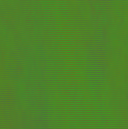
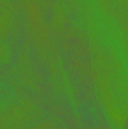
seperate soil and sed textures

diff --git a/src/code/src/gpu_shader_deposition.cpp b/src/code/src/gpu_shader_deposition.cpp
@@ -112,14 +112,20 @@ GPU_SoilDeposition::~GPU_SoilDeposition()
 	glDeleteBuffers(1, &sedimentBuffer);
 	glDeleteBuffers(1, &tempSedimentBuffer);
 
-	glDeleteBuffers(1, &siltBuffer);
-	glDeleteBuffers(1, &tempSiltBuffer);
+	glDeleteBuffers(1, &soiltexBuffer);
+	glDeleteBuffers(1, &tempSoiltexBuffer);
 
-	glDeleteBuffers(1, &sandBuffer);
-	glDeleteBuffers(1, &tempSandBuffer);
+	glDeleteBuffers(1, &sedtexBuffer);
+	glDeleteBuffers(1, &tempSedtexBuffer);
 
-	glDeleteBuffers(1, &clayBuffer);
-	glDeleteBuffers(1, &tempClayBuffer);
+	// glDeleteBuffers(1, &siltBuffer);
+	// glDeleteBuffers(1, &tempSiltBuffer);
+	//
+	// glDeleteBuffers(1, &sandBuffer);
+	// glDeleteBuffers(1, &tempSandBuffer);
+	//
+	// glDeleteBuffers(1, &clayBuffer);
+	// glDeleteBuffers(1, &tempClayBuffer);
 
 	release_program(simulationShader);
 }
@@ -133,9 +139,17 @@ void GPU_SoilDeposition::Init(const ScalarField2& hf, const ScalarField2& siltf,
 	dispatchSize = (max(nx, ny) / 8) + 1;
 
 	tmpData.resize(totalBufferSize);
+	tmpSoiltex.resize(totalBufferSize * 3);
 	tmpSilt.resize(totalBufferSize);
 	tmpSand.resize(totalBufferSize);
 	tmpClay.resize(totalBufferSize);
+
+	std::vector<float> tmpSoilTex(totalBufferSize*3, 0.);
+	for (int i = 0; i < totalBufferSize; i++) {
+		tmpSoilTex[i * 3 + 0] = float(siltf.at(i));
+		tmpSoilTex[i * 3 + 1] = float(sandf.at(i));
+		tmpSoilTex[i * 3 + 2] = float(clayf.at(i));
+	}
 
 	for (int i = 0; i < totalBufferSize; i++) {
 		tmpData[i] = float(hf.at(i));
@@ -174,29 +188,46 @@ void GPU_SoilDeposition::Init(const ScalarField2& hf, const ScalarField2& siltf,
 	glBindBuffer(GL_SHADER_STORAGE_BUFFER, tempSedimentBuffer);
 	glBufferData(GL_SHADER_STORAGE_BUFFER, sizeof(float) * totalBufferSize, &tmpZeros.front(), GL_STREAM_READ);
 
-	if (siltBuffer == 0) glGenBuffers(1, &siltBuffer);
-	glBindBuffer(GL_SHADER_STORAGE_BUFFER, siltBuffer);
-	glBufferData(GL_SHADER_STORAGE_BUFFER, sizeof(float) * totalBufferSize, &tmpSilt.front(), GL_STREAM_READ);
+	if (soiltexBuffer == 0) glGenBuffers(1, &soiltexBuffer);
+	glBindBuffer(GL_SHADER_STORAGE_BUFFER, soiltexBuffer);
+	glBufferData(GL_SHADER_STORAGE_BUFFER, sizeof(float) * 3 * totalBufferSize, &tmpSoilTex.front(), GL_STREAM_READ);
 
-	if (tempSiltBuffer == 0) glGenBuffers(1, &tempSiltBuffer);
-	glBindBuffer(GL_SHADER_STORAGE_BUFFER, tempSiltBuffer);
-	glBufferData(GL_SHADER_STORAGE_BUFFER, sizeof(float) * totalBufferSize, &tmpSilt.front(), GL_STREAM_READ);
+	if (tempSoiltexBuffer == 0) glGenBuffers(1, &tempSoiltexBuffer);
+	glBindBuffer(GL_SHADER_STORAGE_BUFFER, tempSoiltexBuffer);
+	glBufferData(GL_SHADER_STORAGE_BUFFER, sizeof(float) * 3 * totalBufferSize, &tmpSoilTex.front(), GL_STREAM_READ);
 
-	if (sandBuffer == 0) glGenBuffers(1, &sandBuffer);
-	glBindBuffer(GL_SHADER_STORAGE_BUFFER, sandBuffer);
-	glBufferData(GL_SHADER_STORAGE_BUFFER, sizeof(float) * totalBufferSize, &tmpSand.front(), GL_STREAM_READ);
+	if (sedtexBuffer == 0) glGenBuffers(1, &sedtexBuffer);
+	glBindBuffer(GL_SHADER_STORAGE_BUFFER, sedtexBuffer);
+	glBufferData(GL_SHADER_STORAGE_BUFFER, sizeof(float) * 3 * totalBufferSize, &tmpSoilTex.front(), GL_STREAM_READ);
 
-	if (tempSandBuffer == 0) glGenBuffers(1, &tempSandBuffer);
-	glBindBuffer(GL_SHADER_STORAGE_BUFFER, tempSandBuffer);
-	glBufferData(GL_SHADER_STORAGE_BUFFER, sizeof(float) * totalBufferSize, &tmpSand.front(), GL_STREAM_READ);
+	if (tempSedtexBuffer == 0) glGenBuffers(1, &tempSedtexBuffer);
+	glBindBuffer(GL_SHADER_STORAGE_BUFFER, tempSedtexBuffer);
+	glBufferData(GL_SHADER_STORAGE_BUFFER, sizeof(float) * 3 * totalBufferSize, &tmpSoilTex.front(), GL_STREAM_READ);
 
-	if (clayBuffer == 0) glGenBuffers(1, &clayBuffer);
-	glBindBuffer(GL_SHADER_STORAGE_BUFFER, clayBuffer);
-	glBufferData(GL_SHADER_STORAGE_BUFFER, sizeof(float) * totalBufferSize, &tmpClay.front(), GL_STREAM_READ);
 
-	if (tempClayBuffer == 0) glGenBuffers(1, &tempClayBuffer);
-	glBindBuffer(GL_SHADER_STORAGE_BUFFER, tempClayBuffer);
-	glBufferData(GL_SHADER_STORAGE_BUFFER, sizeof(float) * totalBufferSize, &tmpClay.front(), GL_STREAM_READ);
+	// if (siltBuffer == 0) glGenBuffers(1, &siltBuffer);
+	// glBindBuffer(GL_SHADER_STORAGE_BUFFER, siltBuffer);
+	// glBufferData(GL_SHADER_STORAGE_BUFFER, sizeof(float) * totalBufferSize, &tmpSilt.front(), GL_STREAM_READ);
+	//
+	// if (tempSiltBuffer == 0) glGenBuffers(1, &tempSiltBuffer);
+	// glBindBuffer(GL_SHADER_STORAGE_BUFFER, tempSiltBuffer);
+	// glBufferData(GL_SHADER_STORAGE_BUFFER, sizeof(float) * totalBufferSize, &tmpSilt.front(), GL_STREAM_READ);
+	//
+	// if (sandBuffer == 0) glGenBuffers(1, &sandBuffer);
+	// glBindBuffer(GL_SHADER_STORAGE_BUFFER, sandBuffer);
+	// glBufferData(GL_SHADER_STORAGE_BUFFER, sizeof(float) * totalBufferSize, &tmpSand.front(), GL_STREAM_READ);
+	//
+	// if (tempSandBuffer == 0) glGenBuffers(1, &tempSandBuffer);
+	// glBindBuffer(GL_SHADER_STORAGE_BUFFER, tempSandBuffer);
+	// glBufferData(GL_SHADER_STORAGE_BUFFER, sizeof(float) * totalBufferSize, &tmpSand.front(), GL_STREAM_READ);
+	//
+	// if (clayBuffer == 0) glGenBuffers(1, &clayBuffer);
+	// glBindBuffer(GL_SHADER_STORAGE_BUFFER, clayBuffer);
+	// glBufferData(GL_SHADER_STORAGE_BUFFER, sizeof(float) * totalBufferSize, &tmpClay.front(), GL_STREAM_READ);
+	//
+	// if (tempClayBuffer == 0) glGenBuffers(1, &tempClayBuffer);
+	// glBindBuffer(GL_SHADER_STORAGE_BUFFER, tempClayBuffer);
+	// glBufferData(GL_SHADER_STORAGE_BUFFER, sizeof(float) * totalBufferSize, &tmpClay.front(), GL_STREAM_READ);
 
 	// Uniforms - just once
 	glUseProgram(simulationShader);
@@ -223,12 +254,17 @@ void GPU_SoilDeposition::Step(int n) {
 		glBindBufferBase(GL_SHADER_STORAGE_BUFFER, 3, tempStreamBuffer);
 		glBindBufferBase(GL_SHADER_STORAGE_BUFFER, 4, sedimentBuffer);
 		glBindBufferBase(GL_SHADER_STORAGE_BUFFER, 5, tempSedimentBuffer);
-		glBindBufferBase(GL_SHADER_STORAGE_BUFFER, 6, siltBuffer);
-		glBindBufferBase(GL_SHADER_STORAGE_BUFFER, 7, tempSiltBuffer);
-		glBindBufferBase(GL_SHADER_STORAGE_BUFFER, 8, sandBuffer);
-		glBindBufferBase(GL_SHADER_STORAGE_BUFFER, 9, tempSandBuffer);
-		glBindBufferBase(GL_SHADER_STORAGE_BUFFER, 10, clayBuffer);
-		glBindBufferBase(GL_SHADER_STORAGE_BUFFER, 11, tempClayBuffer);
+		glBindBufferBase(GL_SHADER_STORAGE_BUFFER, 6, soiltexBuffer);
+		glBindBufferBase(GL_SHADER_STORAGE_BUFFER, 7, tempSoiltexBuffer);
+		glBindBufferBase(GL_SHADER_STORAGE_BUFFER, 8, sedtexBuffer);
+		glBindBufferBase(GL_SHADER_STORAGE_BUFFER, 9, tempSedtexBuffer);
+
+		// glBindBufferBase(GL_SHADER_STORAGE_BUFFER, 6, siltBuffer);
+		// glBindBufferBase(GL_SHADER_STORAGE_BUFFER, 7, tempSiltBuffer);
+		// glBindBufferBase(GL_SHADER_STORAGE_BUFFER, 8, sandBuffer);
+		// glBindBufferBase(GL_SHADER_STORAGE_BUFFER, 9, tempSandBuffer);
+		// glBindBufferBase(GL_SHADER_STORAGE_BUFFER, 10, clayBuffer);
+		// glBindBufferBase(GL_SHADER_STORAGE_BUFFER, 11, tempClayBuffer);
 
 		glDispatchCompute(dispatchSize, dispatchSize, 1);
 		glMemoryBarrier(GL_SHADER_STORAGE_BARRIER_BIT);
@@ -237,32 +273,40 @@ void GPU_SoilDeposition::Step(int n) {
 		std::swap(bedrockBuffer, tempBedrockBuffer);
 		std::swap(streamBuffer, tempStreamBuffer);
 		std::swap(sedimentBuffer, tempSedimentBuffer);
-		std::swap(siltBuffer, tempSiltBuffer);
-		std::swap(sandBuffer, tempSandBuffer);
-		std::swap(clayBuffer, tempClayBuffer);
+		std::swap(soiltexBuffer, tempSoiltexBuffer);
+		std::swap(sedtexBuffer, tempSedtexBuffer);
+		// std::swap(siltBuffer, tempSiltBuffer);
+		// std::swap(sandBuffer, tempSandBuffer);
+		// std::swap(clayBuffer, tempClayBuffer);
 	}
 
 	glUseProgram(0);
 }
 
 void GPU_SoilDeposition::GetSoilData(ScalarField2& siltf, ScalarField2& sandf, ScalarField2& clayf) {
-	glGetNamedBufferSubData(siltBuffer, 0, sizeof(float) * totalBufferSize, tmpSilt.data());
-	if (glGetError()) {
-		return; // Handle error properly
+	glGetNamedBufferSubData(soiltexBuffer, 0, sizeof(float) * totalBufferSize * 3, tmpSoiltex.data());
+	for (int i = 0; i < totalBufferSize; i++) {
+		siltf[i] = double(tmpSoiltex[i * 3 + 0]);
+		sandf[i] = double(tmpSoiltex[i * 3 + 1]);
+		clayf[i] = double(tmpSoiltex[i * 3 + 2]);
 	}
-
-	for (int i = 0; i < totalBufferSize; i++)
-		siltf[i] = double(tmpSilt[i]);
-
-	glGetNamedBufferSubData(sandBuffer, 0, sizeof(float) * totalBufferSize, tmpSand.data());
-
-	for (int i = 0; i < totalBufferSize; i++)
-		sandf[i] = double(tmpSand[i]);
-
-	glGetNamedBufferSubData(clayBuffer, 0, sizeof(float) * totalBufferSize, tmpClay.data());
-
-	for (int i = 0; i < totalBufferSize; i++)
-		clayf[i] = double(tmpClay[i]);
+	// glGetNamedBufferSubData(siltBuffer, 0, sizeof(float) * totalBufferSize, tmpSilt.data());
+	// if (glGetError()) {
+	// 	return; // Handle error properly
+	// }
+	//
+	// for (int i = 0; i < totalBufferSize; i++)
+	// 	siltf[i] = double(tmpSilt[i]);
+	//
+	// glGetNamedBufferSubData(sandBuffer, 0, sizeof(float) * totalBufferSize, tmpSand.data());
+	//
+	// for (int i = 0; i < totalBufferSize; i++)
+	// 	sandf[i] = double(tmpSand[i]);
+	//
+	// glGetNamedBufferSubData(clayBuffer, 0, sizeof(float) * totalBufferSize, tmpClay.data());
+	//
+	// for (int i = 0; i < totalBufferSize; i++)
+	// 	clayf[i] = double(tmpClay[i]);
 }
 
 GPU_HydraulicErosion::~GPU_HydraulicErosion()

diff --git a/src/code/include/gpu_shader.h b/src/code/include/gpu_shader.h
@@ -96,12 +96,17 @@ public:
 };
 
 class GPU_SoilDeposition : public GPU_Deposition {
-	GLuint siltBuffer = 0;
-	GLuint tempSiltBuffer = 0;
-	GLuint sandBuffer = 0;
-	GLuint tempSandBuffer = 0;
-	GLuint clayBuffer = 0;
-	GLuint tempClayBuffer = 0;
+	// GLuint siltBuffer = 0;
+	// GLuint tempSiltBuffer = 0;
+	// GLuint sandBuffer = 0;
+	// GLuint tempSandBuffer = 0;
+	// GLuint clayBuffer = 0;
+	// GLuint tempClayBuffer = 0;
+	GLuint soiltexBuffer = 0;
+	GLuint tempSoiltexBuffer = 0;
+	GLuint sedtexBuffer = 0;
+	GLuint tempSedtexBuffer = 0;
+	std::vector<float> tmpSoiltex;
 	std::vector<float> tmpSilt;
 	std::vector<float> tmpSand;
 	std::vector<float> tmpClay;